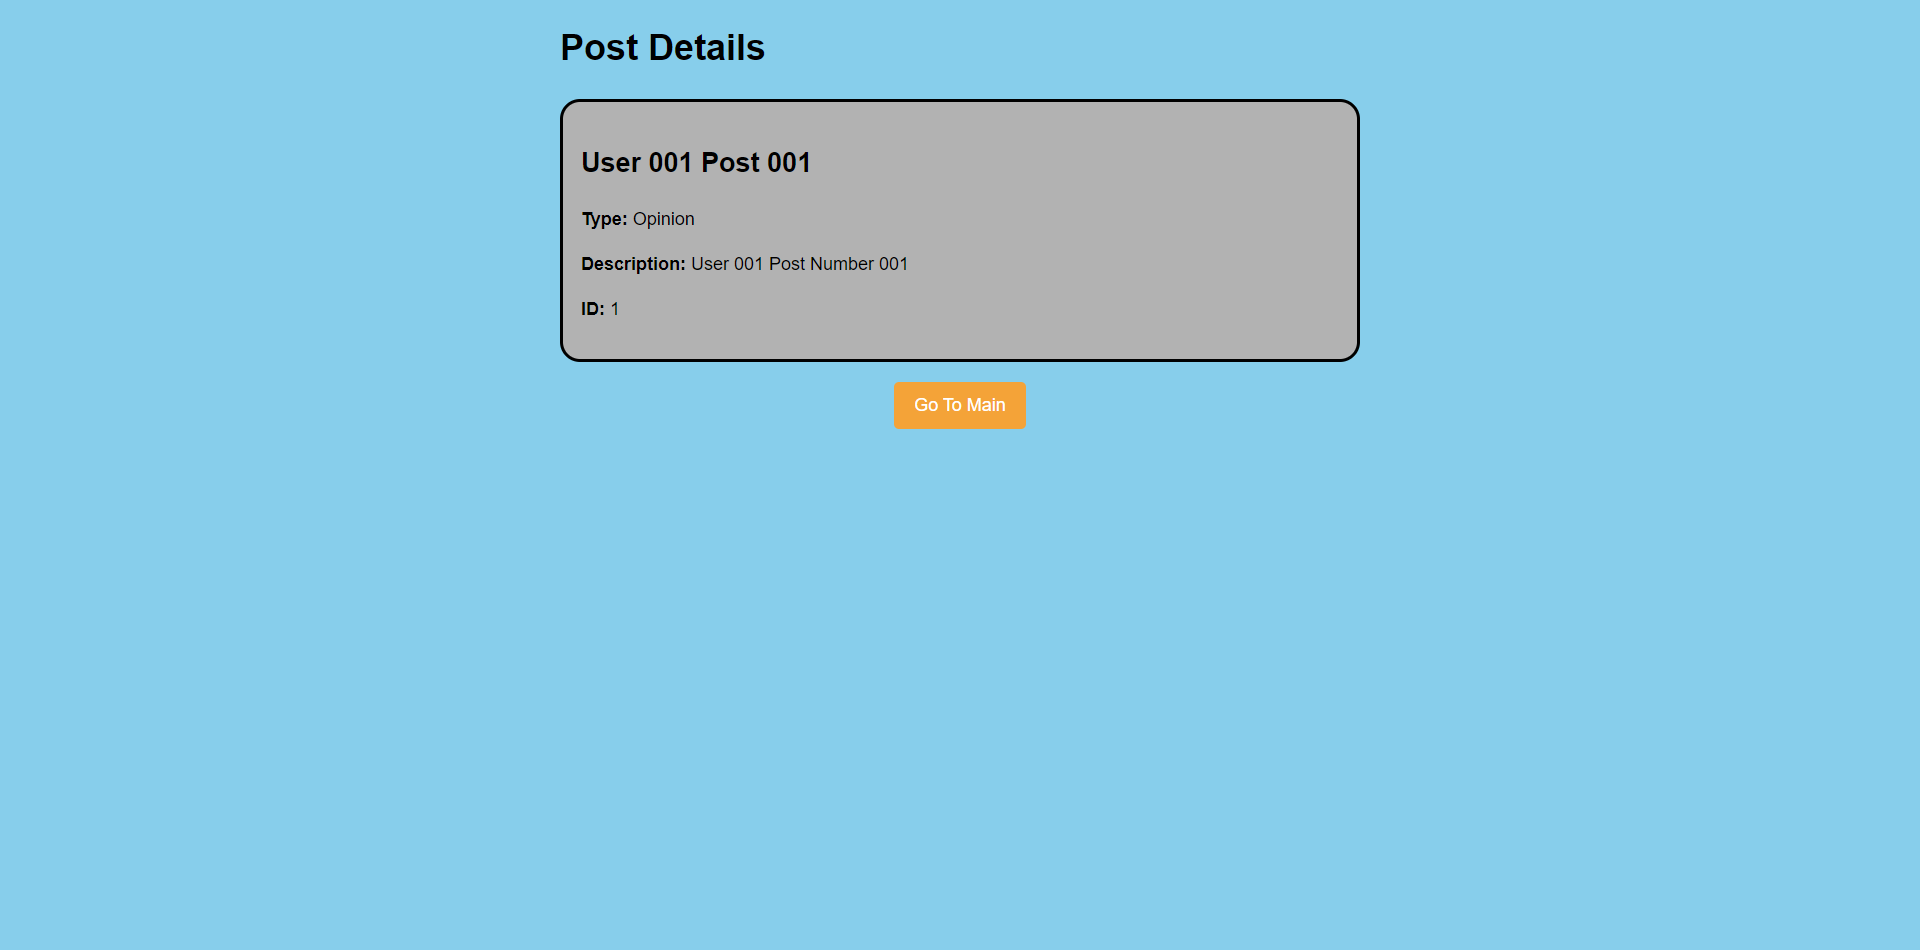
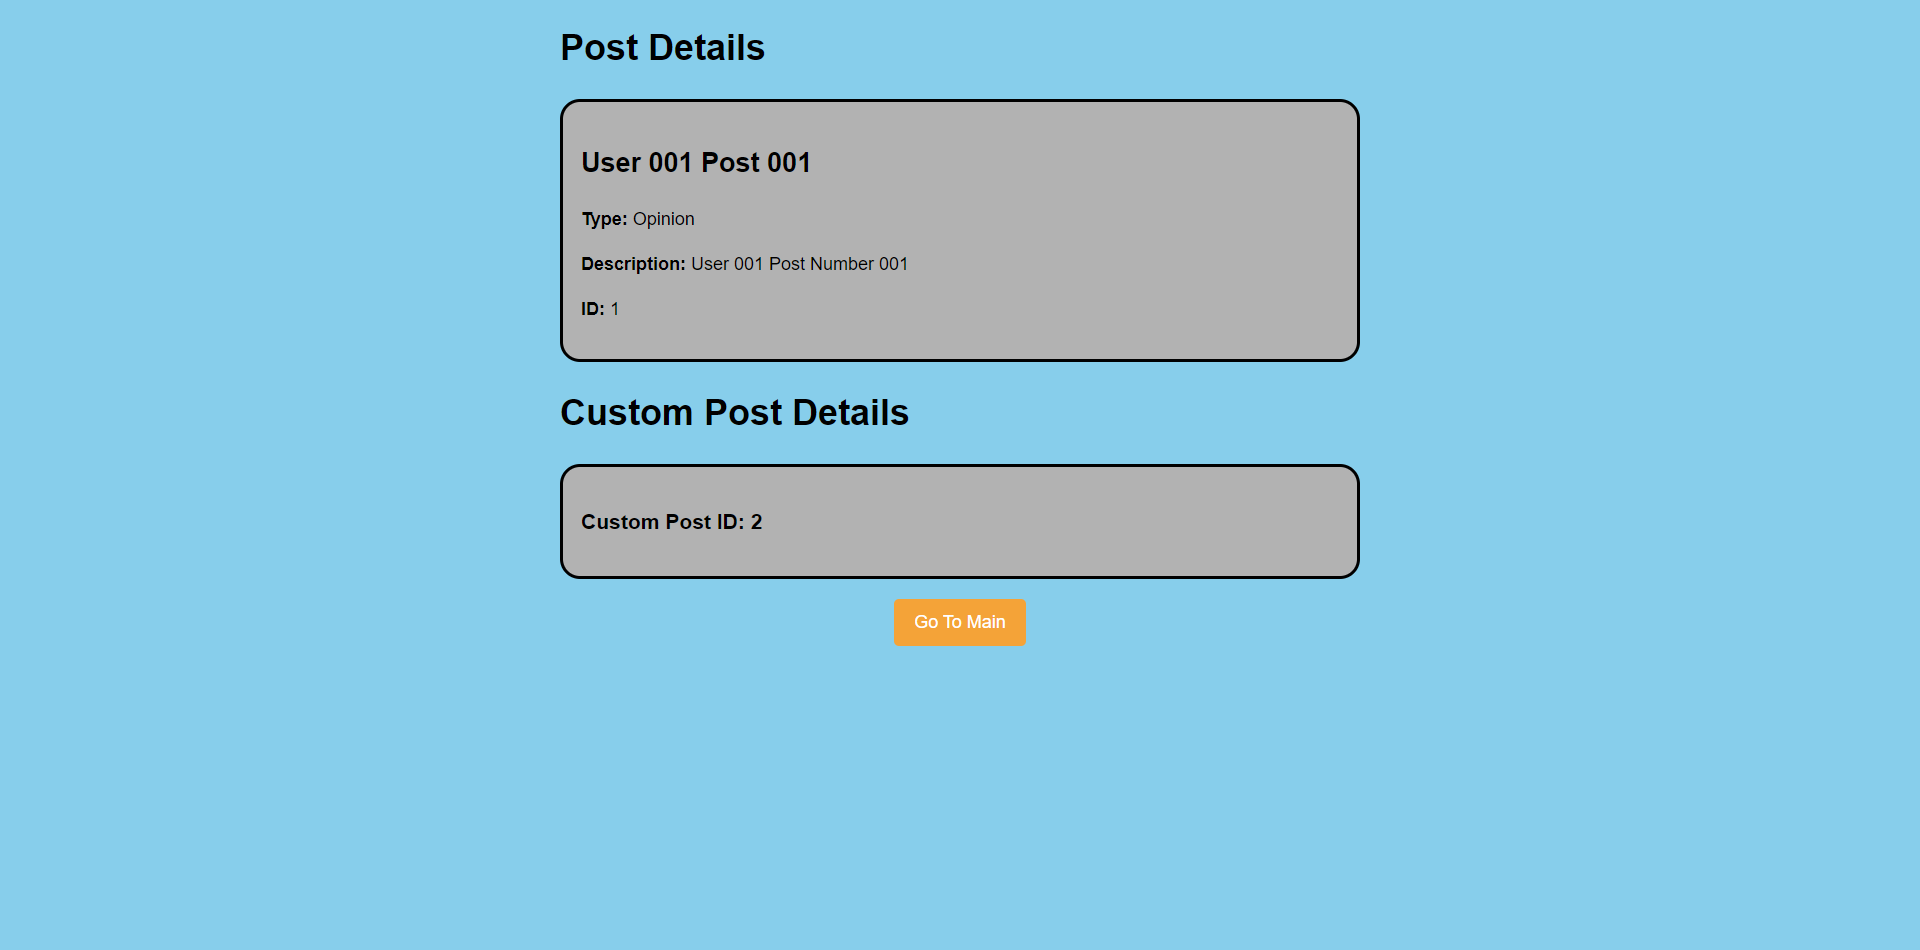
BEAT CONNECTION 0.6.0
Update PostController.php
Update PostRepository.php
Update Post index.html.twig

Changed region(s): [[0.2812, 0.4884, 0.7188, 0.7021], [0.2812, 0.3968, 0.5312, 0.4579]]

diff --git a/src/Controller/PostController.php b/src/Controller/PostController.php
@@ -5,6 +5,7 @@ namespace App\Controller;
 use App\Entity\Post;
 use Doctrine\DBAL\Exception\ConnectionException;
 use Doctrine\ORM\EntityManagerInterface;
+use Doctrine\ORM\NoResultException;
 use Symfony\Bundle\FrameworkBundle\Controller\AbstractController;
 use Symfony\Component\HttpFoundation\Response;
 use Symfony\Component\Routing\Attribute\Route;
@@ -25,6 +26,9 @@ class PostController extends AbstractController
 
     public function index($id): Response
     {
+        if ($id <= 0) {
+            return $this->redirect('/');
+        }
         try {
             $postEntity = $this->em->getRepository(Post::class)->find($id);
             if (!$postEntity) {
@@ -42,8 +46,23 @@ class PostController extends AbstractController
         } catch (\Exception $e) {
             $postMessage = "An unexpected error occurred. Please try again later.";
         }
+        try {
+            $customPostEntity = $this->em->getRepository(Post::class)->findPost((string)($id + 1.));
+            if (!$customPostEntity) {
+                $customPostMessage = "The custom post with ID: $id doesn't exist.";
+            } else {
+                $customPostMessage = "Custom Post ID: " . $customPostEntity['id'];
+            }
+        } catch (NoResultException $e) {
+            $customPostMessage = "The custom post with ID: " . ($id + 1) . " doesn't exist.";
+        } catch (ConnectionException $e) {
+            $customPostMessage = "Database connection error. Please try again later.";
+        } catch (\Exception $e) {
+            $customPostMessage = "An unexpected error occurred. Please try again later.";
+        }
         return $this->render('post/index.html.twig', [
-            'post' => $postMessage
+            'post' => $postMessage,
+            'custom_post' => $customPostMessage,
         ]);
     }
 }

diff --git a/src/Repository/PostRepository.php b/src/Repository/PostRepository.php
@@ -16,28 +16,15 @@ class PostRepository extends ServiceEntityRepository
         parent::__construct($registry, Post::class);
     }
 
-//    /**
-//     * @return Post[] Returns an array of Post objects
-//     */
-//    public function findByExampleField($value): array
-//    {
-//        return $this->createQueryBuilder('p')
-//            ->andWhere('p.exampleField = :val')
-//            ->setParameter('val', $value)
-//            ->orderBy('p.id', 'ASC')
-//            ->setMaxResults(10)
-//            ->getQuery()
-//            ->getResult()
-//        ;
-//    }
-
-//    public function findOneBySomeField($value): ?Post
-//    {
-//        return $this->createQueryBuilder('p')
-//            ->andWhere('p.exampleField = :val')
-//            ->setParameter('val', $value)
-//            ->getQuery()
-//            ->getOneOrNullResult()
-//        ;
-//    }
+    public function findPost($id)
+    {
+        return $this->getEntityManager()
+            ->createQuery('
+                SELECT post.id
+                FROM App\Entity\Post post
+                WHERE post.id =:id
+            ')
+            ->setParameter('id', $id)
+            ->getSingleResult();
+    }
 }

diff --git a/README.md b/README.md
@@ -10,7 +10,7 @@
 
 - **STACK :**
 
-  - **Beat Connection** : `0.5.0`
+  - **Beat Connection** : `0.6.0`
   - **PHP** : `8.1`
   - **Symfony** : `6.4.8`
 
